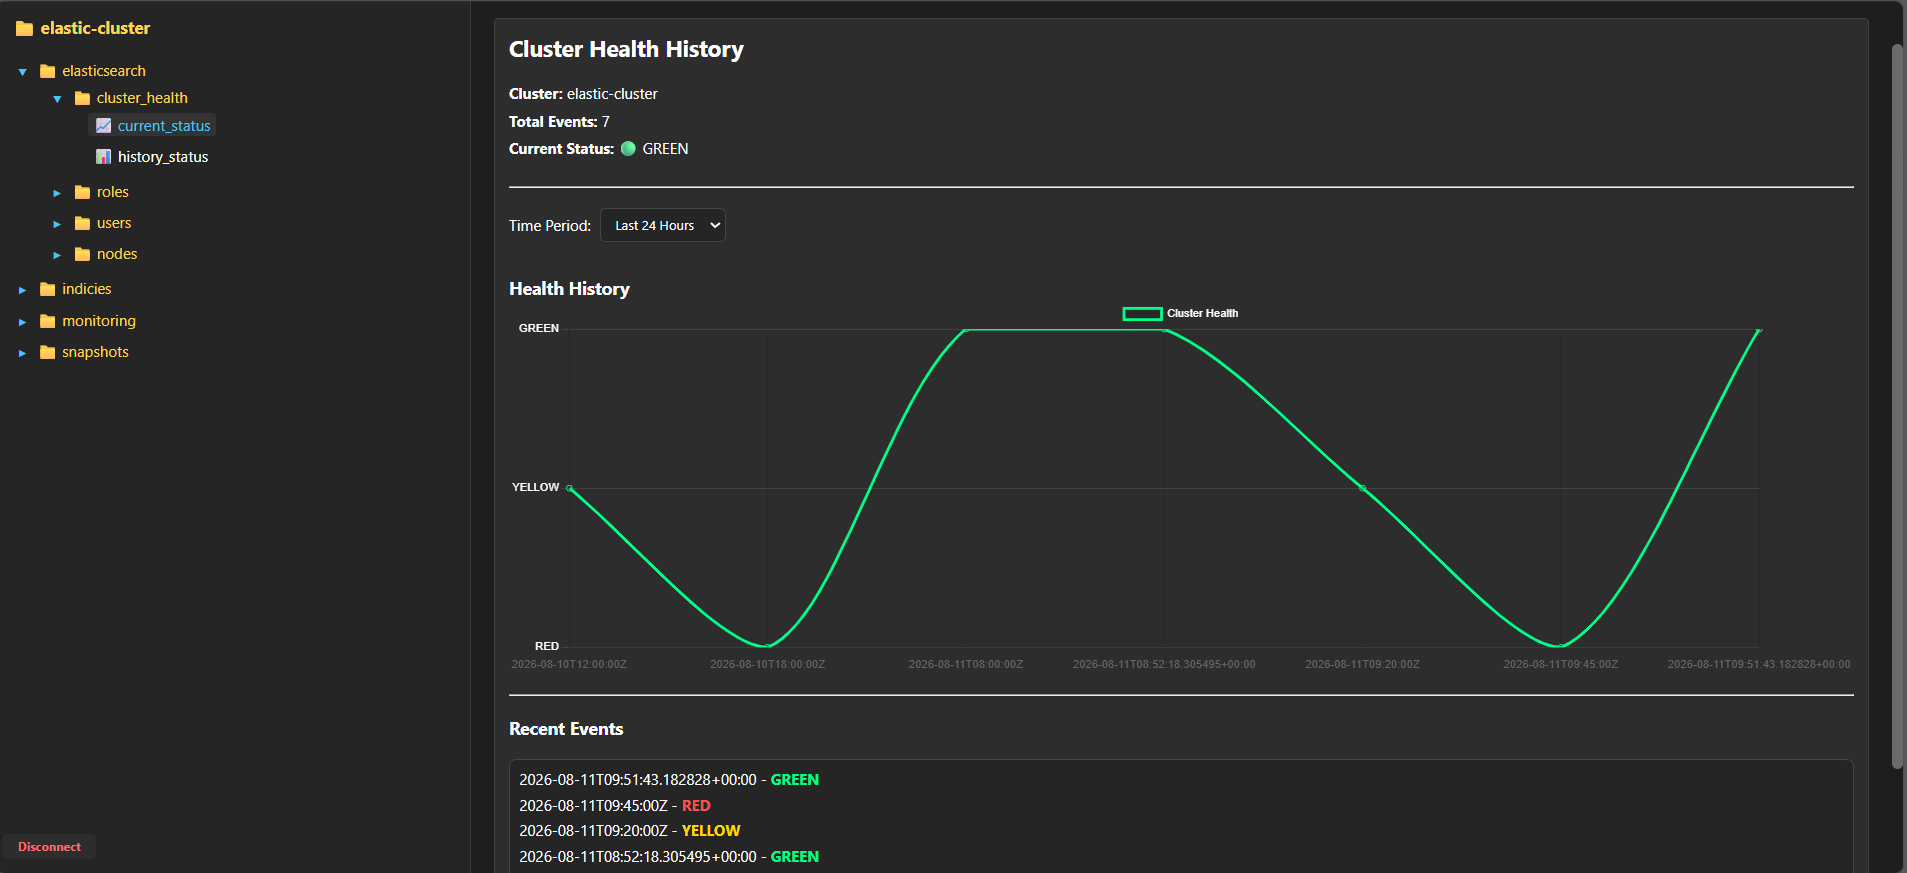
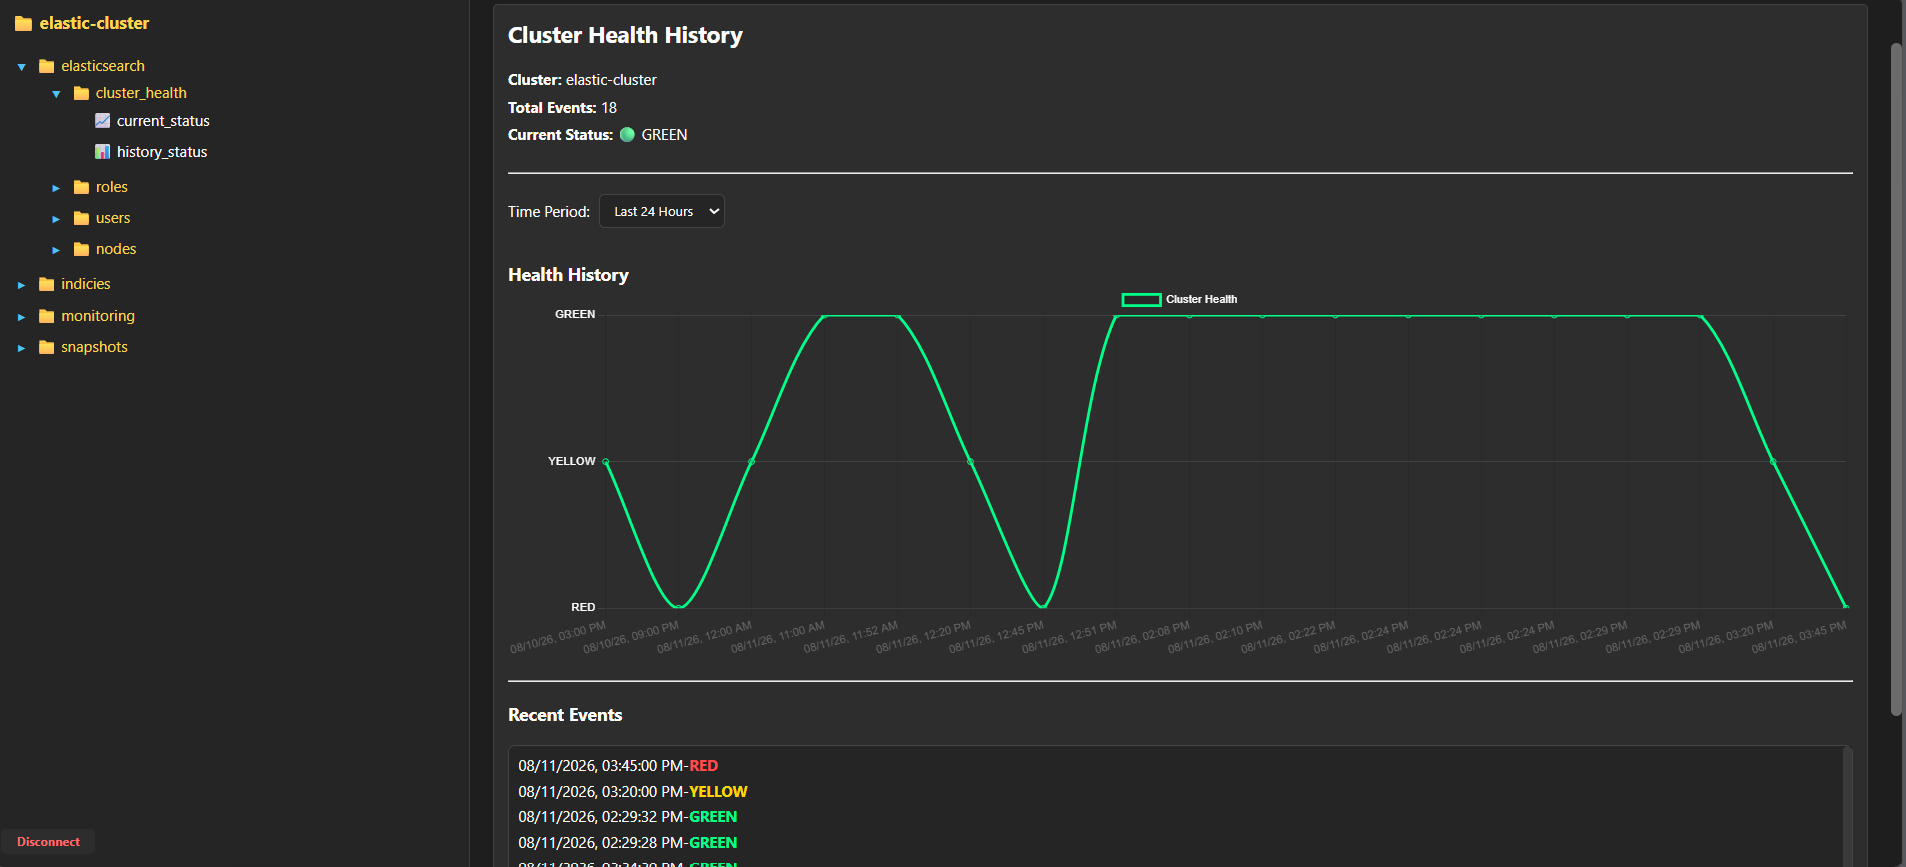
Modified format in Recent Events and Health History Dashboard,Current Status added

diff --git a/static/js/cluster_health_history.js b/static/js/cluster_health_history.js
@@ -4,10 +4,12 @@ async function loadClusterHealthHistory(clusterName,period = "24h")
 {
     const response = await fetch(`/cluster-health-history/${clusterName}/?period=${period}`);
     const data = await response.json();
+    const history = data.history;
+    const currentStatus = data.current_status;
 
     document.getElementById("history-cluster-name").textContent = clusterName;
-    document.getElementById("history-total-events").textContent = data.length;
-    const currentStatus = data[data.length - 1].status;
+    document.getElementById("history-total-events").textContent = history.length;
+    // const currentStatus = data[data.length - 1].status;
     const icon = currentStatus === "green" ? "🟢" : currentStatus === "yellow" ? "🟡" : "🔴";
 
     document.getElementById("history-current-status").innerHTML = `${icon} ${currentStatus.toUpperCase()}`;
@@ -23,18 +25,28 @@ async function loadClusterHealthHistory(clusterName,period = "24h")
     const labels = [];
     const values = [];
 
-    data.forEach(entry =>{
-        labels.push(entry.timestamp);
+    history.forEach(entry =>{
+        const formattedLabel = new Date(entry.timestamp).toLocaleString("en-EN",
+                                                                        {
+                                                                            day: "2-digit",
+                                                                            month: "2-digit",
+                                                                            year: "2-digit",
 
-        if(entry.status === "green")
-            values.push(3);
+                                                                            hour: "2-digit",
+                                                                            minute: "2-digit"
+                                                                        });
+                                                                        labels.push(formattedLabel);
+                                                                        if(entry.status === "green")
 
-        else if(entry.status === "yellow")
-            values.push(2);
+                                                                            values.push(3);
+                                                                        else if(entry.status === "yellow")
+                                                                            values.push(2);
 
-        else
-            values.push(1);
-    });
+                                                                        else
+
+                                                                            values.push(1);
+                        });
+
 
     const ctx = document.getElementById("clusterHealthChart");
     if (clusterHealthChart) {
@@ -115,11 +127,22 @@ async function loadClusterHealthHistory(clusterName,period = "24h")
     const events = document.getElementById("health-events");
 
     events.innerHTML = "";
-    data.slice().reverse().forEach(item =>
+    history.slice().reverse().forEach(item =>
     {
             const color = item.status === "green" ? "#00ff88": item.status === "yellow" ? "#ffd700" : "#ff4d4d";
+            const formattedDate = new Date(item.timestamp).toLocaleString("en-EN",
+                                                                                {
+                                                                                    year: "numeric",
+                                                                                    month: "2-digit",
+                                                                                    day: "2-digit",
 
-    events.innerHTML += `<div style="margin-bottom:6px;"> ${item.timestamp} - <span style="color:${color};font-weight:bold;"> ${item.status.toUpperCase()}</span></div>`;
+                                                                                    hour: "2-digit",
+                                                                                    minute: "2-digit",
+                                                                                    second: "2-digit"
+                                                                                }
+                                                                         );
+
+        events.innerHTML += `<div style="margin-bottom:6px;">${formattedDate}-<span style="color:${color};font-weight:bold;">${item.status.toUpperCase()}</span></div>`;
     });
 }
 

diff --git a/views.py b/views.py
@@ -233,7 +233,9 @@ def disconnect_cluster(request):
 
 def cluster_health_history_panel(request,cluster_name):
     cluster = request.session.get("selected_cluster")
+    cluster_health = get_cluster_health(cluster)
+
     period = request.GET.get("period","24h")
     history = get_cluster_health_history(cluster,cluster_name,period)
 
-    return JsonResponse(history,safe=False)
+    return JsonResponse({"history": history,"current_status":cluster_health["status"]})
